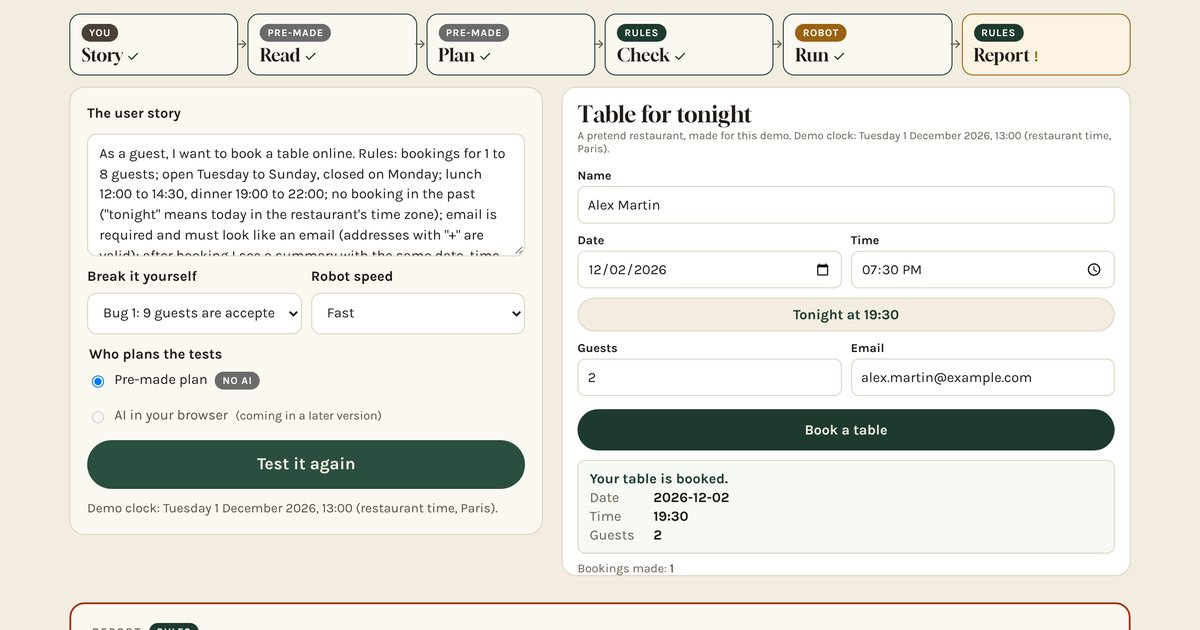
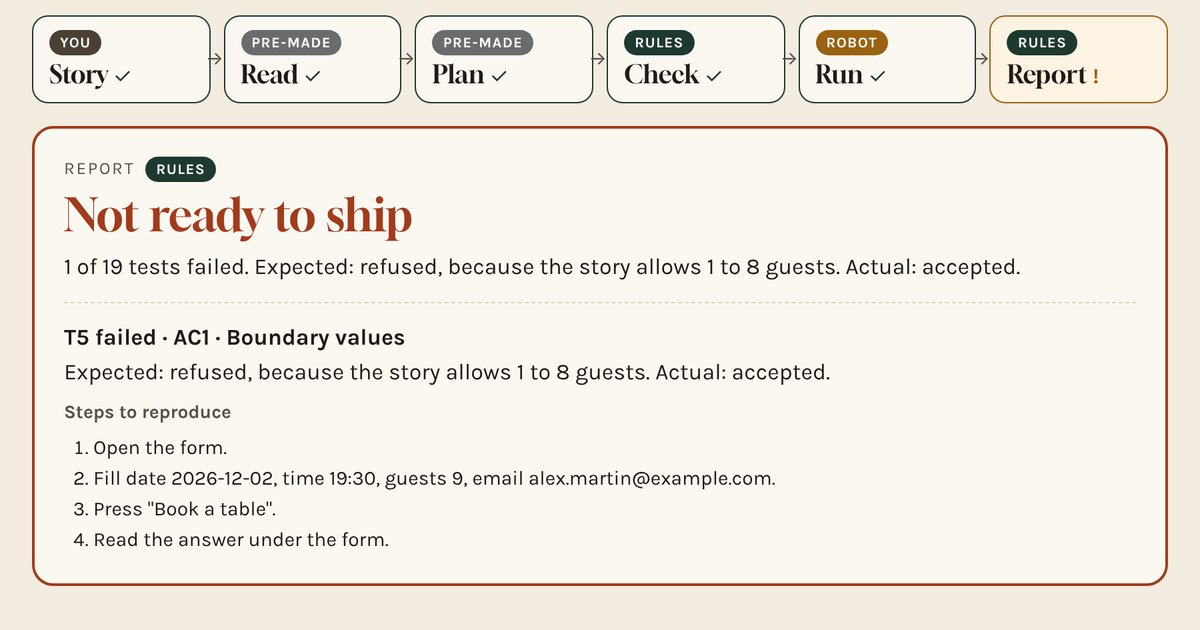
Test Pilot pictures: the 6-step map above the real report (Olivia's decision on PORT-30)
Both pictures are real screenshots of one run with bug 1 (900 px wide page): the map strip, then the
report "Not ready to ship" with T5 failed. No form, and the word AI appears nowhere in either picture.

Claude-Session: https://claude.ai/code/session_01SrSmsaUWfNDKWC4AuweoXA

diff --git a/projects/test-pilot/index.html b/projects/test-pilot/index.html
@@ -14,7 +14,7 @@
   <meta property="og:image" content="https://nawres-skhairia.vercel.app/assets/og/test-pilot.jpg">
   <meta property="og:image:width" content="1200">
   <meta property="og:image:height" content="630">
-  <meta property="og:image:alt" content="Test Pilot running tests on a small booking form, with one red test">
+  <meta property="og:image:alt" content="Test Pilot: the six steps of a run and the report Not ready to ship, with one failed test">
   <meta name="twitter:card" content="summary_large_image">
   <link rel="icon" href="/favicon.svg" type="image/svg+xml">
   <link rel="stylesheet" href="/assets/fonts/fonts.css">
